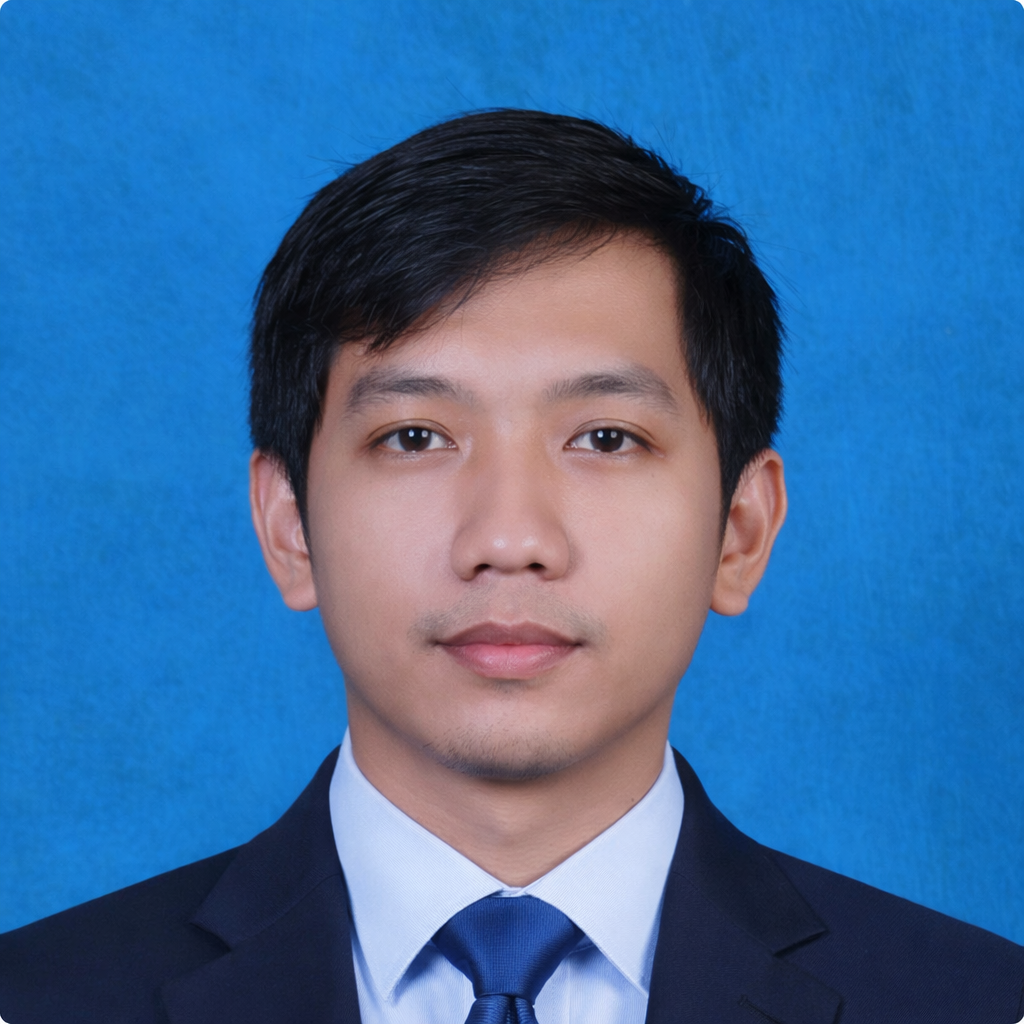
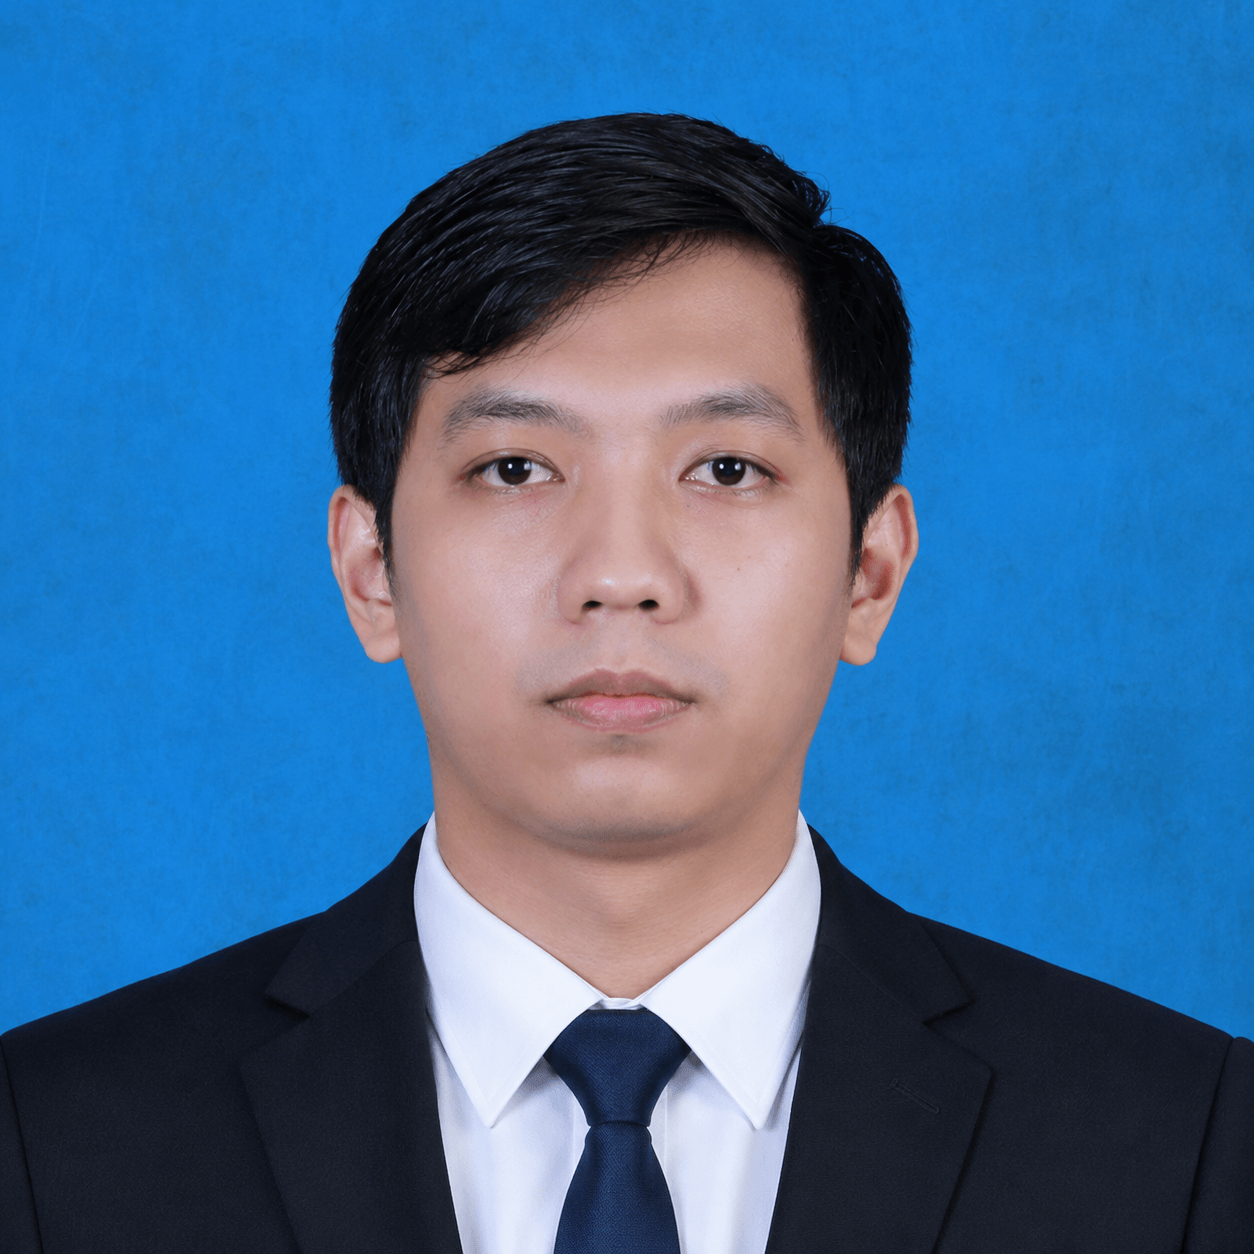
chore: add new image photo

diff --git a/index.html b/index.html
@@ -1462,7 +1462,7 @@
 
           <a href="https://www.linkedin.com/in/dian-mukti-wibowo-244576a6/" target="_blank" class="hover:text-slate-900"
             data-i18n="linkedin">LinkedIn</a>
-          <a href="assets/portofolio-dian/CV_Dian_Mukti_Wibowo.pdf" download=""
+          <a href="assets/portofolio-dian/CV_DIAN_MUKTI_WIBOWO.pdf" download=""
             class="px-4 py-2 bg-slate-900 text-white rounded hover:bg-slate-800" data-i18n="download-cv">Download CV</a>
         </nav>
         <div class="md:hidden">
@@ -1590,7 +1590,7 @@
               <div class="flex items-center gap-3">
               <a href="#portfolio" class="px-4 py-2 bg-slate-900 text-white rounded shadow-sm"
                 data-i18n="see-projects">See projects</a>
-              <a href="assets/portofolio-dian/CV_Dian_Mukti_Wibowo.pdf" download=""
+              <a href="assets/portofolio-dian/CV_DIAN_MUKTI_WIBOWO.pdf" download=""
                 class="px-4 py-2 border border-slate-200 rounded text-slate-700" data-i18n="download-cv">Download CV</a>
               </div>
             </div>
@@ -2105,7 +2105,7 @@
                   <rect width="4" height="12" x="2" y="9"></rect>
                   <circle cx="4" cy="4" r="2"></circle>
                 </svg><span data-i18n="linkedin-button">LinkedIn</span></a>
-              <a href="assets/portofolio-dian/CV_Dian_Mukti_Wibowo.pdf"
+              <a href="assets/portofolio-dian/CV_DIAN_MUKTI_WIBOWO.pdf"
                 class="inline-flex items-center gap-2 px-4 py-2 border rounded text-slate-700" role="button"
                 aria-label="Download CV"><svg xmlns="http://www.w3.org/2000/svg" width="24" height="24"
                   viewBox="0 0 24 24" fill="none" stroke="currentColor" stroke-width="2" stroke-linecap="round"
@@ -2234,7 +2234,7 @@
               <line x1="11" x2="11" y1="8" y2="14"></line>
               <line x1="8" x2="14" y1="11" y2="11"></line>
             </svg></button>
-          <a id="pdf-download" href="assets/portofolio-dian/CV_Dian_Mukti_Wibowo.pdf" target="_blank" rel="noopener"
+          <a id="pdf-download" href="assets/portofolio-dian/CV_DIAN_MUKTI_WIBOWO.pdf" target="_blank" rel="noopener"
             class="px-3 py-1 text-sm border rounded bg-slate-50" aria-label="Download PDF"><svg
               xmlns="http://www.w3.org/2000/svg" width="24" height="24" viewBox="0 0 24 24" fill="none"
               stroke="currentColor" stroke-width="2" stroke-linecap="round" stroke-linejoin="round"
@@ -2289,7 +2289,7 @@
             </div>
 
             <a href="https://www.linkedin.com/in/dian-mukti-wibowo-244576a6/" target="_blank" class="text-slate-700 py-3 text-lg block" data-i18n="linkedin">LinkedIn</a>
-            <a href="assets/portofolio-dian/CV_Dian_Mukti_Wibowo.pdf" class="text-slate-700 py-3 text-lg block" data-i18n="download-cv">Download CV</a>
+            <a href="assets/portofolio-dian/CV_DIAN_MUKTI_WIBOWO.pdf" class="text-slate-700 py-3 text-lg block" data-i18n="download-cv">Download CV</a>
 
           </div>
         `;
@@ -2361,7 +2361,7 @@
       });
     })();
 
-    const CV_FILE_PATH = 'assets/portofolio-dian/CV_Dian_Mukti_Wibowo.pdf';
+    const CV_FILE_PATH = 'assets/portofolio-dian/CV_DIAN_MUKTI_WIBOWO.pdf';
 
     // openEncoded: decrypt base64-encoded link and open in new tab
     function openEncoded(enc) {